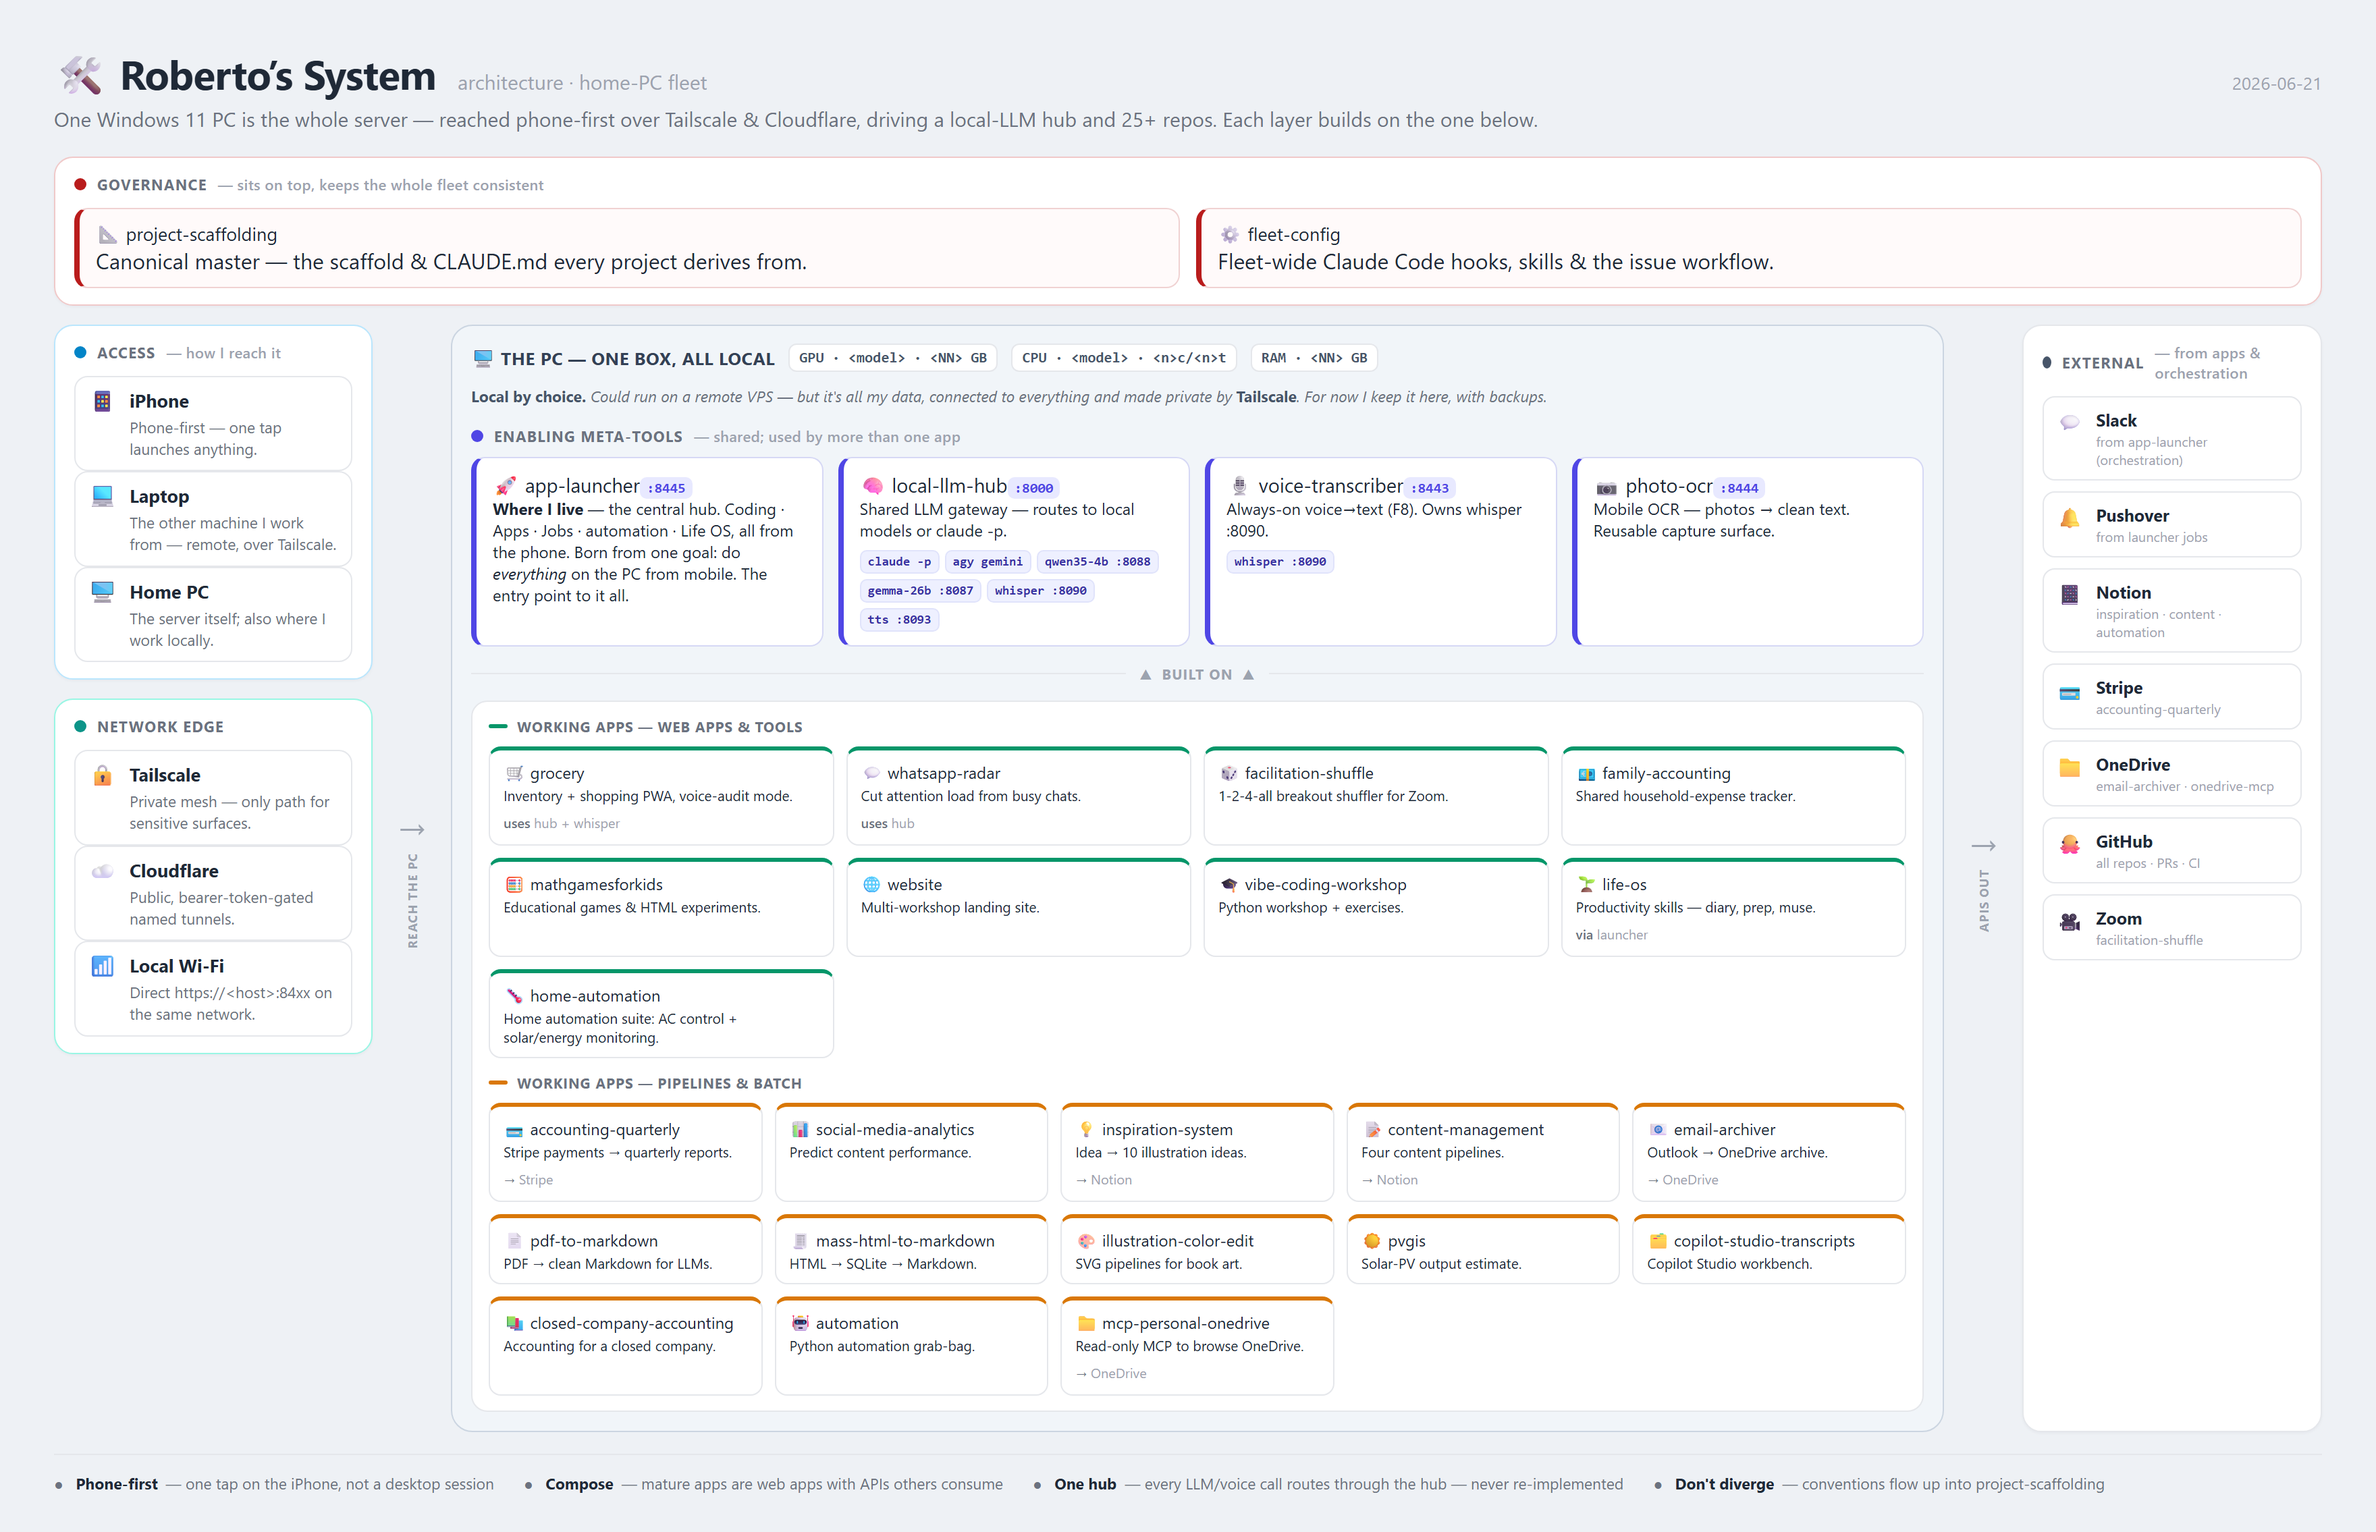
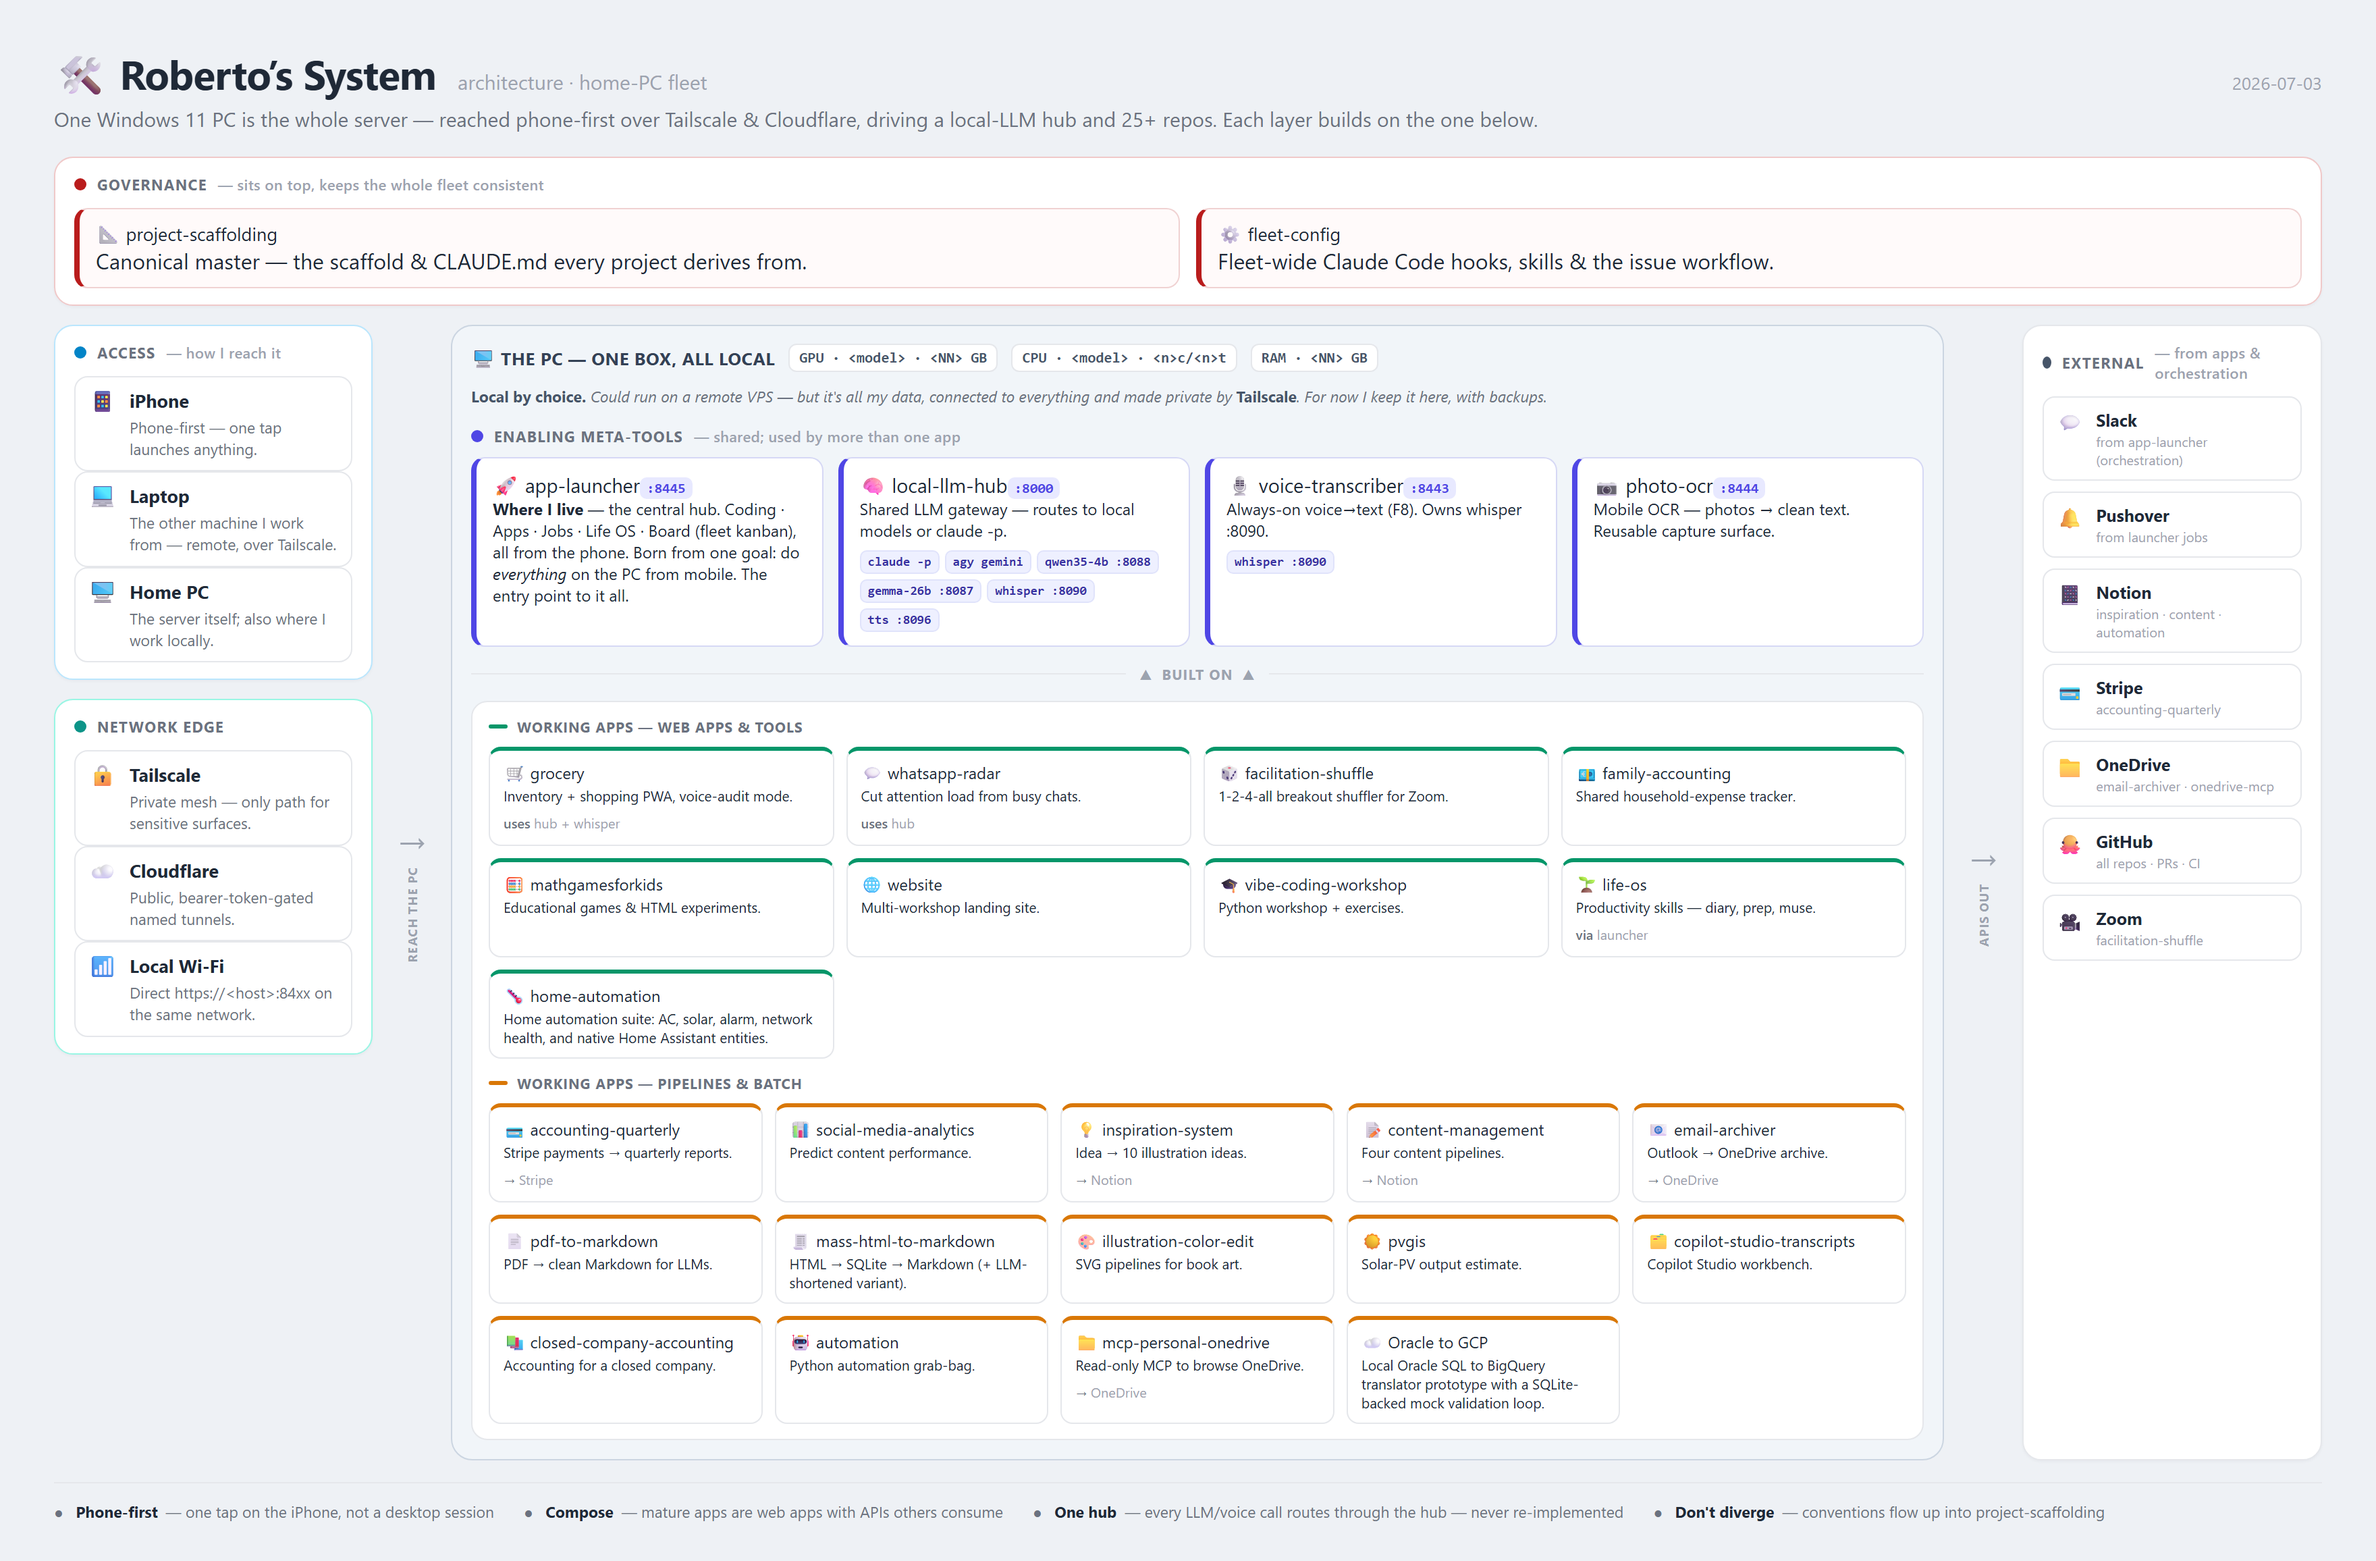
docs: refresh system map (2026-07-03)

diff --git a/architecture/fleet.data.js b/architecture/fleet.data.js
@@ -27,7 +27,7 @@ window.FLEET = {
   ],
   "compute": {"gpu": "GPU · &lt;model&gt; · &lt;NN&gt; GB", "cpu": "CPU · &lt;model&gt; · &lt;n&gt;c/&lt;n&gt;t", "ram": "RAM · &lt;NN&gt; GB"},
   "enabling": [
-    {"ic": "🚀", "nm": "app-launcher", "port": ":8445", "ds": "<b>Where I live</b> — the central hub. Coding · Apps · Jobs · automation · Life OS, all from the phone. Born from one goal: do <i>everything</i> on the PC from mobile. The entry point to it all."},
+    {"ic": "🚀", "nm": "app-launcher", "port": ":8445", "ds": "<b>Where I live</b> — the central hub. Coding · Apps · Jobs · Life OS · Board (fleet kanban), all from the phone. Born from one goal: do <i>everything</i> on the PC from mobile. The entry point to it all."},
     {"ic": "🧠", "nm": "local-llm-hub", "port": ":8000", "ds": "Shared LLM gateway — routes to local models or claude -p.", "chips": ["claude -p", "agy gemini", "qwen35-4b :8088", "gemma-26b :8087", "whisper :8090", "tts :8096"]},
     {"ic": "🎙", "nm": "voice-transcriber", "port": ":8443", "ds": "Always-on voice→text (F8). Owns whisper :8090.", "chips": ["whisper :8090"]},
     {"ic": "📷", "nm": "photo-ocr", "port": ":8444", "ds": "Mobile OCR — photos → clean text. Reusable capture surface."}
